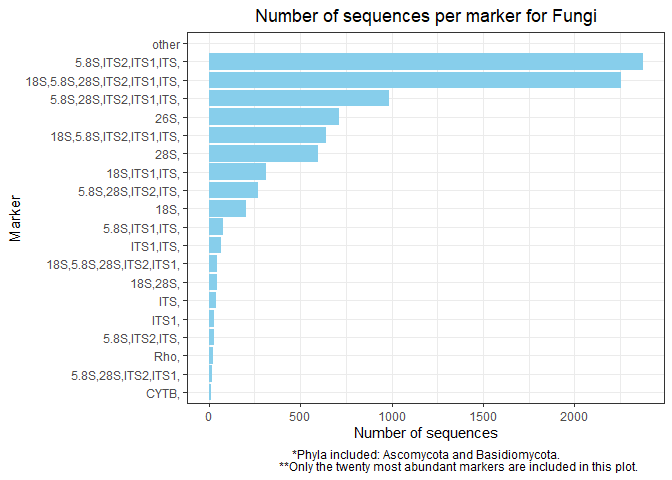
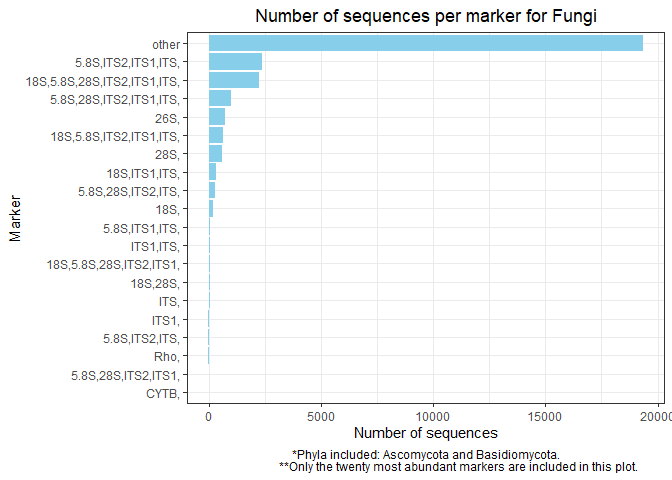
corrected sum of sequences other for markers table fungi

diff --git a/scripts/5_EDA_genbank.md b/scripts/5_EDA_genbank.md
@@ -572,7 +572,7 @@ Number of sequences per marker for Fungi
     ## # A tibble: 20 x 2
     ##    Marker                      Number_sequences
     ##    <chr>                                  <int>
-    ##  1 other                                     NA
+    ##  1 other                                  19328
     ##  2 5.8S,ITS2,ITS1,ITS,                     2373
     ##  3 18S,5.8S,28S,ITS2,ITS1,ITS,             2257
     ##  4 5.8S,28S,ITS2,ITS1,ITS,                  984
